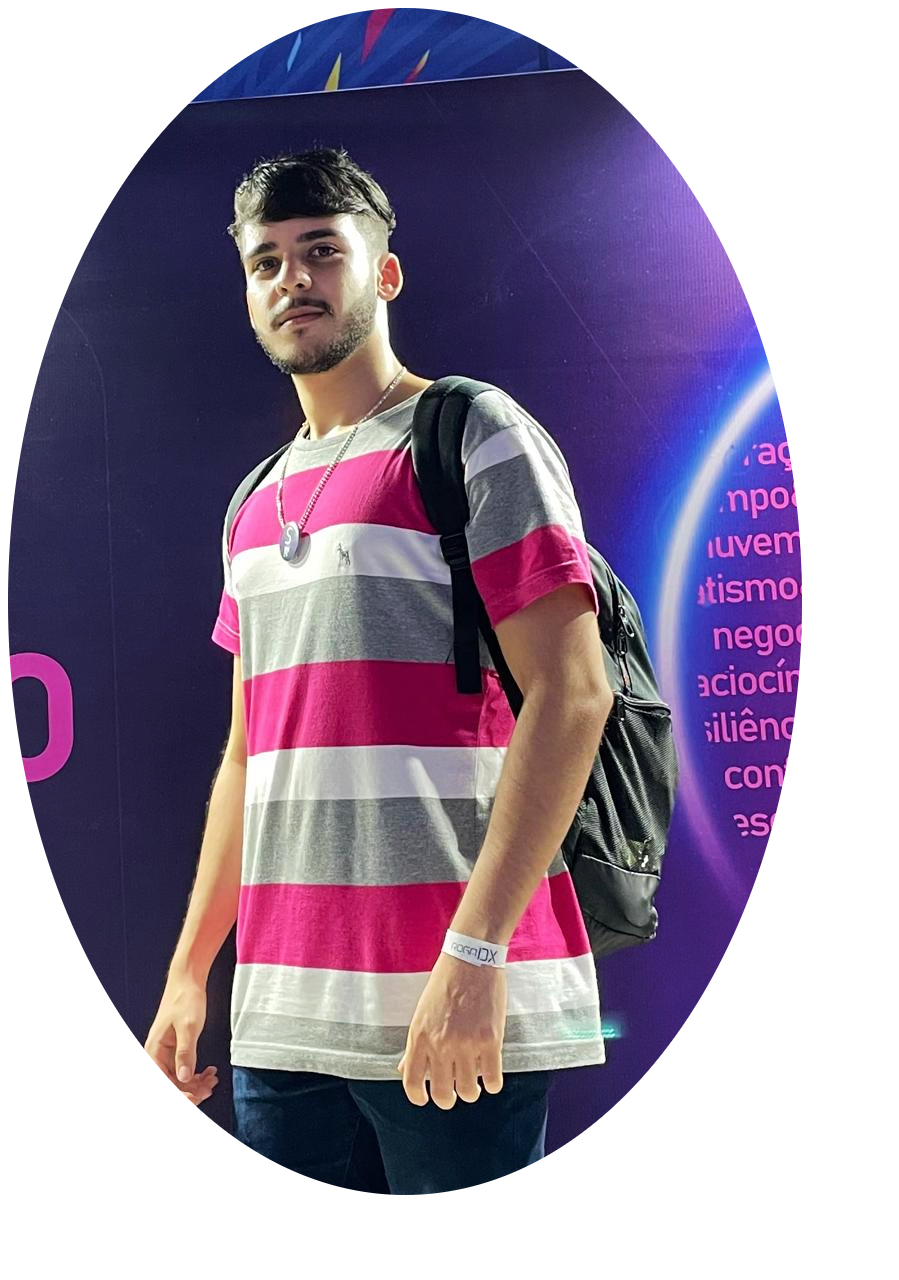
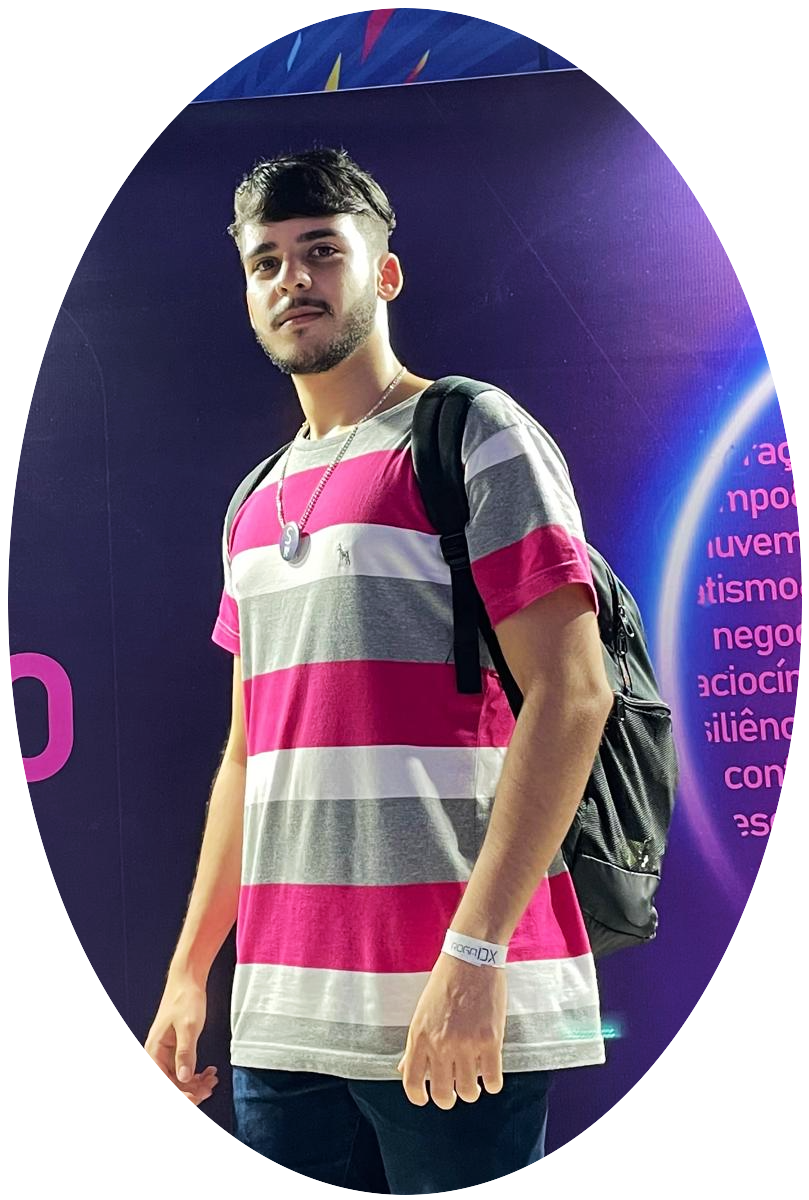
Att responsivo e js

diff --git a/style.css b/style.css
@@ -47,6 +47,10 @@ form .btn-enviar input:hover {
     transform: scale(1.05);
 }
 
+.btn-abrir-menu{
+    display: none;
+}
+
 /* ESTILO DO CABEÇALHO */
 header {
     padding: 40px 4%;
@@ -65,7 +69,7 @@ header a {
     transition: 0.2s;
 }
 
-header a:hover {
+header nav.menu-desktop a:hover {
     color: #fff;
     transform: scale(1.05);
 }
@@ -74,9 +78,72 @@ header nav ul {
     list-style-type: none;
 }
 
-header nav ul li {
+header nav.menu-desktop ul li {
     display: inline-block;
     padding: 0 40px;
+}
+
+/* ESTILO DO MENU MOBILE */
+.btn-abrir-menu i{
+    color: #00FF08;
+    font-size: 41px;
+}
+
+.menu-mobile{
+    background-color: #666666b0;
+    height: 100vh;
+    position: fixed;
+    top: 0;
+    right: 0;
+    z-index: 99999;
+    width: 0%;
+    overflow: hidden;
+    transition: .5s;
+}
+
+.menu-mobile.abrir-menu{
+    width: 70%;
+}
+
+.menu-mobile.abrir-menu ~ .overlay-menu{
+    display: block;
+}
+
+.menu-mobile .btn-fechar{
+    padding: 20px 5%;
+}
+
+.menu-mobile .btn-fechar i{
+    color: #00FF08;
+    font-size: 28px;
+}
+
+.menu-mobile nav ul{
+    text-align: right;
+}
+
+.menu-mobile nav ul li a{
+    color: #fff;
+    font-size: 20px;
+    font-weight: 300;
+    padding: 20px 7%;
+    display: block;
+}
+
+.menu-mobile nav ul li a:hover{
+    background-color: #00FF08;
+    color: #000;
+}
+
+.overlay-menu{
+    background-color: #000000a6;
+    width: 100%;
+    height: 100%;
+    position: fixed;
+    top: 0;
+    left: 0;
+    z-index: 88888;
+    display: none;
 }
 
 /* ESTILO DO TOPO DO SITE*/
@@ -322,6 +389,10 @@ footer .line-footer p a {
 
 /* RESPONSIVO */
 @media screen and (max-width: 1020px) {
+
+    .btn-abrir-menu{
+        display: block;
+    }
 
     /* CLASSES GERAIS*/
     .flex {

diff --git a/index.html b/index.html
@@ -12,6 +12,9 @@
      <link rel="stylesheet" href="https://cdn.jsdelivr.net/npm/bootstrap-icons@1.11.3/font/bootstrap-icons.min.css">
     <!--FIM BOOTSTRAP ICONS-->
     <link rel="stylesheet" href="style.css">
+
+    <script src="main.js" defer></script>
+
     <title>Projeto portfólio dMelo</title>
 </head>
 
@@ -38,6 +41,27 @@
                     <button>Contato</button>
                 </a>
             </div>
+
+            <div class="btn-abrir-menu" id="btn-menu">
+                <i class="bi bi-list"></i>
+            </div>
+
+            <div class="menu-mobile" id="menu-mobile">
+                <div class="btn-fechar">
+                    <i class="bi bi-x-lg"></i>
+                </div>
+                <nav>
+                    <ul>
+                        <li><a href="#">Inicio</a></li>
+                        <li><a href="#">Especialidades</a></li>
+                        <li><a href="#">Sobre</a></li>
+                        <li><a href="#">Projetos</a></li>
+                        <li><a href="#">Contato</a></li>
+                    </ul>
+                </nav>
+            </div><!--menu mobile-->
+
+            <div class="overlay-menu" id="overlay-menu"></div>
 
         </div><!--interface-->
     </header>

diff --git a/main.js b/main.js
@@ -1,0 +1,16 @@
+
+let btnMenu = document.getElementById('btn-menu')
+let menu = document.getElementById('menu-mobile')
+let overlay = document.getElementById('overlay-menu')
+
+btnMenu.addEventListener('click', ()=>{
+    menu.classList.add('abrir-menu')
+})
+
+menu.addEventListener('click', ()=>{
+    menu.classList.remove('abrir-menu')
+})
+
+overlay.addEventListener('click', ()=>{
+    menu.classList.remove('abrir-menu')
+})
